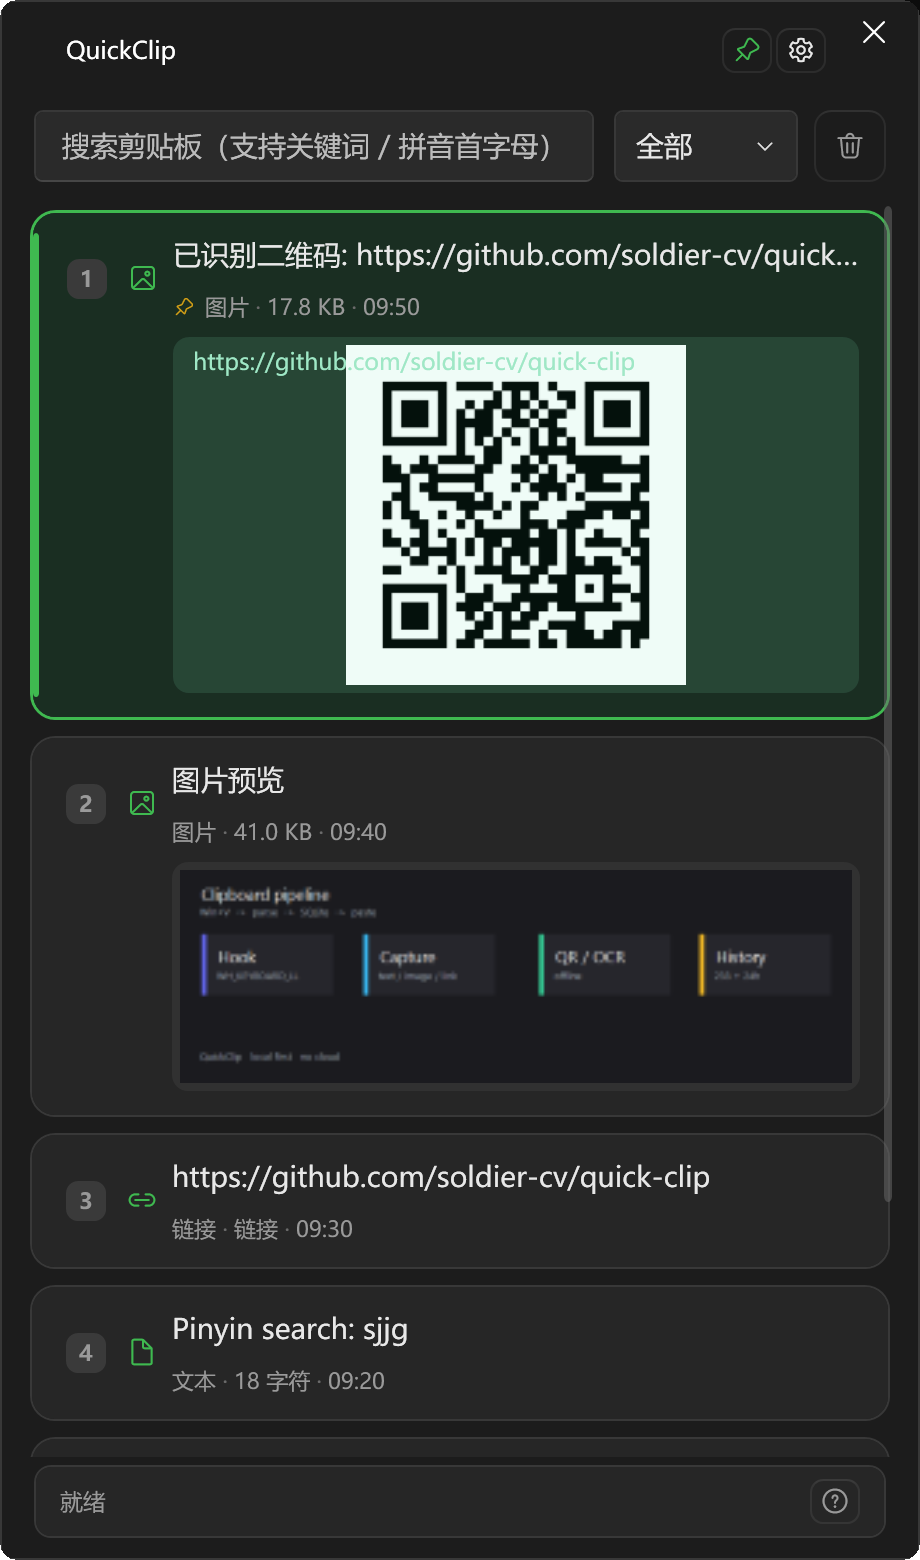
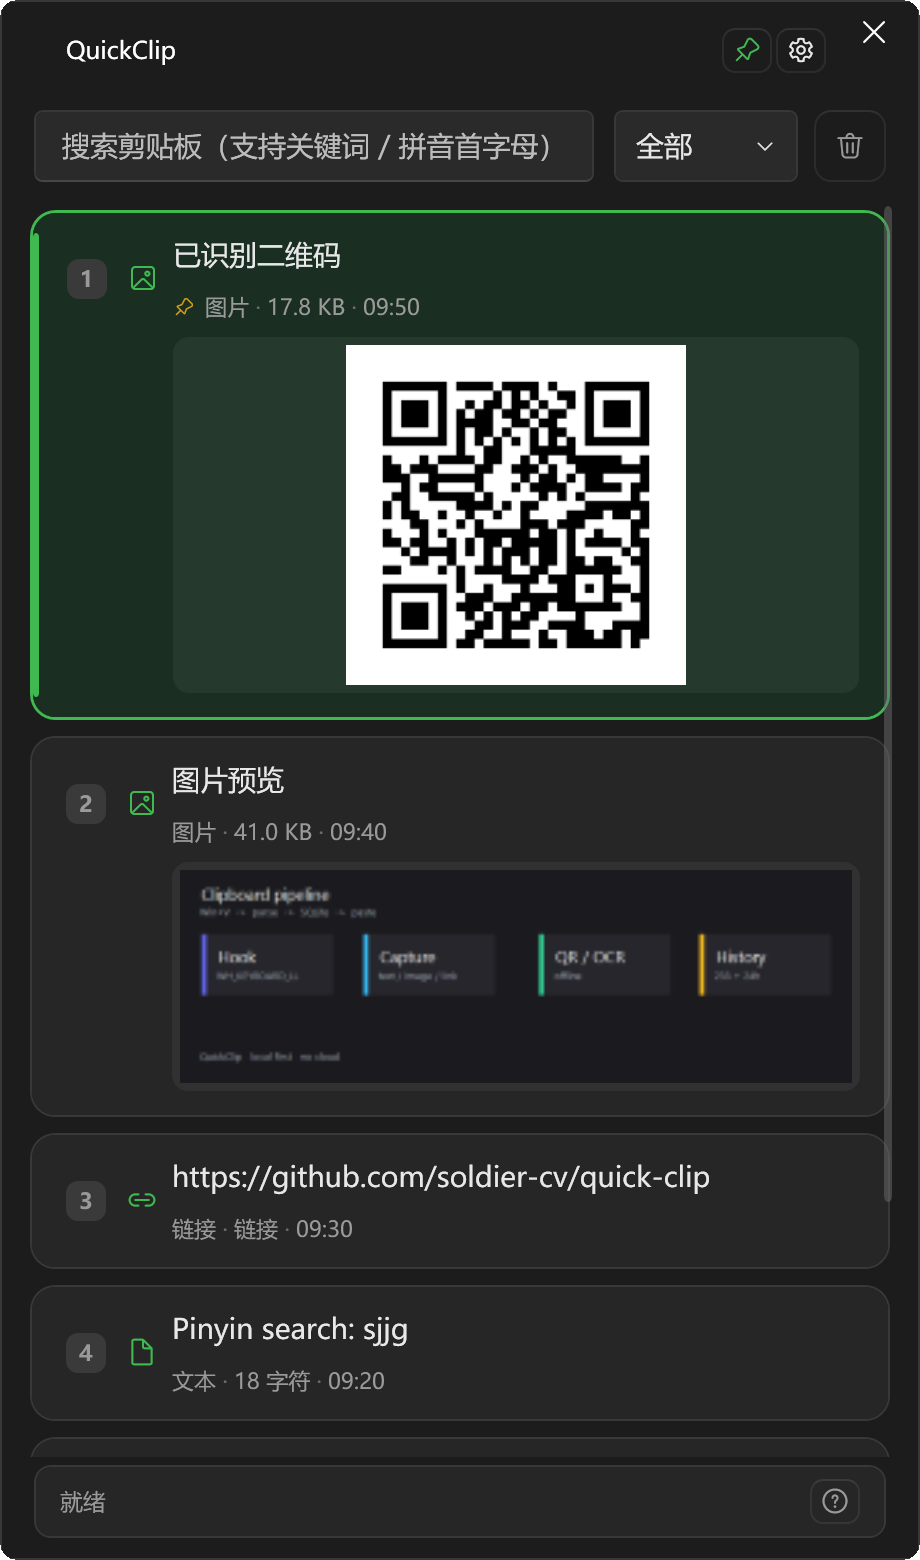
1.1.2：二维码列表不再铺解码正文，预览也不叠在码下
识别后的图片卡片只标「已识别二维码」，解码内容放到悬停预览；生成/放大二维码不再跟原文。顺带把绿色版更新和条数淘汰写进本版。

Changed region(s): [[0.3957, 0.1538, 0.913, 0.1846], [0.213, 0.2154, 0.5174, 0.2462], [0.5478, 0.2154, 0.7, 0.2462]]

diff --git a/src/QuickClip/MainWindow.xaml b/src/QuickClip/MainWindow.xaml
@@ -396,19 +396,6 @@
                                            Stretch="Uniform"
                                            Margin="4" />
                                 </Border>
-
-                                <Border Grid.Row="1"
-                                        Margin="56,8,0,0"
-                                        Padding="10,5"
-                                        CornerRadius="8"
-                                        Background="#1434D399"
-                                        Visibility="{Binding HasQr, Converter={StaticResource BoolToVis}}">
-                                    <TextBlock Text="{Binding QrText}"
-                                               Foreground="#9FE8C6"
-                                               FontSize="11.5"
-                                               TextTrimming="CharacterEllipsis"
-                                               ToolTip="{Binding QrText}" />
-                                </Border>
                             </Grid>
                         </Grid>
                     </Border>
@@ -518,6 +505,44 @@
                                MaxHeight="300"
                                Stretch="Uniform"
                                Visibility="{Binding IsImage, Converter={StaticResource BoolToVis}}" />
+                        <Border x:Name="PreviewQrDecodePanel"
+                                Margin="0,12,0,0"
+                                Padding="10,8,10,8"
+                                CornerRadius="8"
+                                Visibility="Collapsed">
+                            <Grid>
+                                <Border x:Name="PreviewQrDecodeBar"
+                                        Width="3"
+                                        CornerRadius="2"
+                                        HorizontalAlignment="Left"
+                                        VerticalAlignment="Stretch" />
+                                <StackPanel Margin="12,0,0,0">
+                                    <StackPanel Orientation="Horizontal">
+                                        <ui:SymbolIcon x:Name="PreviewQrDecodeIcon"
+                                                       Symbol="ScanQrCode24"
+                                                       FontSize="13"
+                                                       VerticalAlignment="Center" />
+                                        <TextBlock x:Name="PreviewQrDecodeLabel"
+                                                   Text="已识别二维码"
+                                                   FontSize="11"
+                                                   Margin="6,0,0,0"
+                                                   VerticalAlignment="Center" />
+                                    </StackPanel>
+                                    <ScrollViewer x:Name="PreviewQrDecodeScroll"
+                                                  Margin="0,6,0,0"
+                                                  MaxHeight="140"
+                                                  HorizontalScrollBarVisibility="Disabled"
+                                                  VerticalScrollBarVisibility="Auto">
+                                        <TextBlock x:Name="PreviewQrDecodeText"
+                                                   Text="{Binding QrText}"
+                                                   FontSize="13"
+                                                   LineHeight="20"
+                                                   TextWrapping="Wrap"
+                                                   MaxWidth="400" />
+                                    </ScrollViewer>
+                                </StackPanel>
+                            </Grid>
+                        </Border>
                         <ScrollViewer x:Name="PreviewScroll"
                                       MaxHeight="340"
                                       HorizontalScrollBarVisibility="Disabled"
@@ -545,7 +570,8 @@
                                        TextAlignment="Center"
                                        TextWrapping="Wrap"
                                        MaxWidth="240"
-                                       Text="手机扫码接力" />
+                                       Visibility="Collapsed"
+                                       Text="" />
                         </StackPanel>
                     </StackPanel>
                 </Border>
@@ -566,7 +592,7 @@
                     HorizontalAlignment="Center"
                     VerticalAlignment="Center">
                 <StackPanel>
-                    <TextBlock Text="二维码 · 手机扫码接力"
+                    <TextBlock Text="二维码"
                                Foreground="{DynamicResource Theme.Text}"
                                FontSize="15"
                                FontWeight="SemiBold"
@@ -582,7 +608,8 @@
                                TextTrimming="CharacterEllipsis"
                                Foreground="{DynamicResource Theme.TextSecondary}"
                                FontSize="12"
-                               TextAlignment="Center" />
+                               TextAlignment="Center"
+                               Visibility="Collapsed" />
                     <ui:Button Appearance="Primary"
                                Margin="0,14,0,0"
                                Height="36"

diff --git a/docs/preview.html b/docs/preview.html
@@ -970,7 +970,7 @@
               </div>
               <div class="popover-desc">
                 <h5>📱 离线生成二维码</h5>
-                <p>纯本地 QRCoder 引擎渲染<br>手机扫码即可跨屏接力</p>
+                <p>纯本地 QRCoder 引擎渲染</p>
                 <code>${item.qrTarget}</code>
               </div>
             </div>

diff --git a/src/QuickClip/MainWindow.xaml.cs b/src/QuickClip/MainWindow.xaml.cs
@@ -142,6 +142,14 @@ public partial class MainWindow : FluentWindow
         PreviewBodyText.Foreground = text;
         PreviewQrCaption.Foreground = muted;
         PreviewScroll.Background = System.Windows.Media.Brushes.Transparent;
+
+        var accentMuted = WindowChromeHelper.CreateSolidBrush(p.AccentMuted);
+        PreviewQrDecodePanel.Background = accentMuted;
+        PreviewQrDecodeBar.Background = accent;
+        PreviewQrDecodeIcon.Foreground = accent;
+        PreviewQrDecodeLabel.Foreground = secondary;
+        PreviewQrDecodeText.Foreground = accent;
+        PreviewQrDecodeScroll.Background = System.Windows.Media.Brushes.Transparent;
     }
 
     /// <summary>窗口句柄创建后挂载剪贴板监听。</summary>
@@ -519,6 +527,7 @@ public partial class MainWindow : FluentWindow
 
         ApplyHoverPreviewTheme();
         PreviewPopup.DataContext = vm;
+        PreviewTypeIcon.ClearValue(Wpf.Ui.Controls.SymbolIcon.SymbolProperty);
         SetPreviewContentMode(showQr: false);
         PreviewPopup.PlacementTarget = this;
         PreviewPopup.Placement = System.Windows.Controls.Primitives.PlacementMode.Relative;
@@ -548,14 +557,38 @@ public partial class MainWindow : FluentWindow
         {
             PreviewHoverImage.Visibility = Visibility.Collapsed;
             PreviewScroll.Visibility = Visibility.Collapsed;
+            PreviewQrDecodePanel.Visibility = Visibility.Collapsed;
             PreviewQrPanel.Visibility = Visibility.Visible;
             return;
         }
 
         PreviewQrPanel.Visibility = Visibility.Collapsed;
         PreviewQrImage.Source = null;
+        SetQrCaption(null);
         PreviewHoverImage.ClearValue(UIElement.VisibilityProperty);
         PreviewScroll.ClearValue(UIElement.VisibilityProperty);
+        // 解码绿块不能靠 HasQr 绑定：Popup 里绑定失败或 ClearValue 后会回默认 Visible，任何预览都带一块绿
+        PreviewQrDecodePanel.Visibility = ShouldShowQrDecodePanel()
+            ? Visibility.Visible
+            : Visibility.Collapsed;
+    }
+
+    private bool ShouldShowQrDecodePanel() =>
+        !_previewQrMode &&
+        PreviewPopup.DataContext is ClipboardItemViewModel { IsImage: true, HasQr: true };
+
+    /// <summary>生成预览只在失败/进行中显示状态，成功后不把原文铺在码下面。</summary>
+    private void SetQrCaption(string? text)
+    {
+        if (string.IsNullOrEmpty(text))
+        {
+            PreviewQrCaption.Text = string.Empty;
+            PreviewQrCaption.Visibility = Visibility.Collapsed;
+            return;
+        }
+
+        PreviewQrCaption.Text = text;
+        PreviewQrCaption.Visibility = Visibility.Visible;
     }
 
     /// <summary>内容测量完成后按条目位置重定位浮层（左右自适应 + 垂直对齐 + 屏幕边界钳制）。</summary>
@@ -890,7 +923,7 @@ public partial class MainWindow : FluentWindow
         PreviewPopup.Placement = System.Windows.Controls.Primitives.PlacementMode.Relative;
         SetPreviewContentMode(showQr: true);
         PreviewQrImage.Source = null;
-        PreviewQrCaption.Text = "生成中…";
+        SetQrCaption("生成中…");
 
         if (!PreviewPopup.IsOpen)
         {
@@ -906,7 +939,7 @@ public partial class MainWindow : FluentWindow
         {
             if (gen == _previewQrGeneration && _previewQrMode)
             {
-                PreviewQrCaption.Text = "当前条目无法生成二维码";
+                SetQrCaption("当前条目无法生成二维码");
             }
 
             return;
@@ -942,8 +975,7 @@ public partial class MainWindow : FluentWindow
             }
 
             PreviewQrImage.Source = bmp;
-            string caption = content.Length <= 48 ? content : content[..48] + "…";
-            PreviewQrCaption.Text = caption;
+            SetQrCaption(null);
             PreviewTypeIcon.Symbol = Wpf.Ui.Controls.SymbolRegular.QrCode24;
             RepositionPreview();
             _ = Dispatcher.BeginInvoke(RepositionPreview, DispatcherPriority.Loaded);
@@ -953,7 +985,7 @@ public partial class MainWindow : FluentWindow
             DebugLog.LogException("悬停生成二维码失败", ex);
             if (gen == _previewQrGeneration && _previewQrMode)
             {
-                PreviewQrCaption.Text = "二维码生成失败";
+                SetQrCaption("二维码生成失败");
             }
         }
     }
@@ -969,8 +1001,7 @@ public partial class MainWindow : FluentWindow
         {
             ApplyHoverPreviewTheme();
             SetPreviewContentMode(showQr: false);
-            // 恢复类型图标（悬停二维码时可能改成了 QrCode）
-            PreviewTypeIcon.Symbol = vm.TypeIcon;
+            PreviewTypeIcon.ClearValue(Wpf.Ui.Controls.SymbolIcon.SymbolProperty);
             RepositionPreview();
             return;
         }
@@ -1068,7 +1099,7 @@ public partial class MainWindow : FluentWindow
         bitmap.EndInit();
         bitmap.Freeze();
         QrImage.Source = bitmap;
-        QrTextBlock.Text = _viewModel.SelectedItem?.Item.TextContent ?? string.Empty;
+        QrTextBlock.Text = string.Empty;
         QrOverlay.Visibility = Visibility.Visible;
         QrOverlay.IsHitTestVisible = true;
     }

diff --git a/src/QuickClip/ViewModels/ClipboardItemViewModel.cs b/src/QuickClip/ViewModels/ClipboardItemViewModel.cs
@@ -131,7 +131,8 @@ public sealed class ClipboardItemViewModel : INotifyPropertyChanged
         string text = item.TextContent ?? string.Empty;
         if (item.ContentType == ClipboardContentType.Image)
         {
-            return !string.IsNullOrEmpty(item.QrContent) ? $"已识别二维码: {item.QrContent}" : "图片预览";
+            // 列表只标识别状态，解码正文放到悬停预览，避免卡片标题被 URL 撑满
+            return !string.IsNullOrEmpty(item.QrContent) ? "已识别二维码" : "图片预览";
         }
 
         string oneLine = text.Replace("\r\n", " / ").Replace('\n', ' ').Trim();

diff --git a/docs/DESIGN.md b/docs/DESIGN.md
@@ -55,7 +55,8 @@ graph TD
    - 捕获图片优先读剪贴板 PNG；WPF `GetImage()` 的 DIB 常带全 0 Alpha，须按不透明写盘，否则缩略图透明且 ZXing 解不出；
    - 捕获到图片后，在后台线程中将其送入 `BarcodeReader.Decode(bitmap)`；
    - 若解析成功，提取 URL/字符串，写入 `qr_content`（卡片 `HasQr` / `QrText`）。
-   - 列表同一按钮：文本/链接为「转二维码」；已识别二维码图图标改为解析，悬停仍预览原图，点击把 `QrText` 写成纯文本并抑制捕获。
+   - 列表只标「已识别二维码」并保留原图，不把解码正文叠在卡片上；悬停预览展示 `QrText`。
+   - 列表同一按钮：文本/链接为「转二维码」；已识别二维码图图标改为解析，悬停仍预览原图 + 解码正文，点击把 `QrText` 写成纯文本并抑制捕获。
 2. **二维码离线生成**：
    - 使用 `QRCoder` 库；
    - 对任意选中的文本或 URL，在内存中直接调用 `QRCodeGenerator.CreateQrCode(...)` 渲染高清位图，无需网络请求。
@@ -99,8 +100,8 @@ graph TD
 | [1] 🔗 https://github.com/microsoft/winui3                    [📱转二维码] |
 |     Microsoft WinUI 3 官方仓库地址                                 12:40 |
 +-------------------------------------------------------------------------+
-| [2] 🖼 [已识别二维码: https://qr.alipay.com/...]              [🔍解析成文] |
-|     [缩略图] 商家收银二维码截图                                      11:15 |
+| [2] 🖼 已识别二维码                                          [🔍解析成文] |
+|     [缩略图] 图片 · 17.8 KB                                    11:15 |
 +-------------------------------------------------------------------------+
 | [3] 🖼 软件开发架构图设计稿                                  [🔍提取文字OCR] |
 |     [缩略图] 系统架构示意图 (1920x1080)                            09:30 |

diff --git a/CHANGELOG.md b/CHANGELOG.md
@@ -4,6 +4,18 @@
 
 ## [Unreleased]
 
+## [1.1.2] — 2026-08-13
+
+### 体验
+
+- 已识别二维码图：列表只显示「已识别二维码」和原图，不再把解码正文叠在卡片上；悬停预览里单独展示解码内容
+- 生成二维码弹层标题去掉「手机扫码接力」
+- 生成/放大二维码不再把原文铺在码下面；解码正文只出现在已识别图片的预览解码区
+
+### 修复
+
+- 悬停预览解码绿块在文本/普通图片上也会出现
+
 ### 变更
 
 - 绿色版不再自动覆盖 exe 并重启：下载完成后点「打开下载目录」，退出后再自行替换

diff --git a/README.md b/README.md
@@ -25,9 +25,9 @@
 文本 / 链接悬停即可生成，点一下放大给手机扫。复制一张码，自动抽出链接。
 
 <p align="center">
-  <img src="docs/assets/qr-generate.png" width="360" alt="悬停生成二维码，手机扫码接力">
+  <img src="docs/assets/qr-generate.png" width="360" alt="悬停生成二维码">
   &nbsp;
-  <img src="docs/assets/qr-decode.png" width="360" alt="图片中的二维码自动识别并展示链接">
+  <img src="docs/assets/qr-decode.png" width="360" alt="图片中的二维码自动识别，列表只保留识别标记">
 </p>
 
 ## 还有这些
